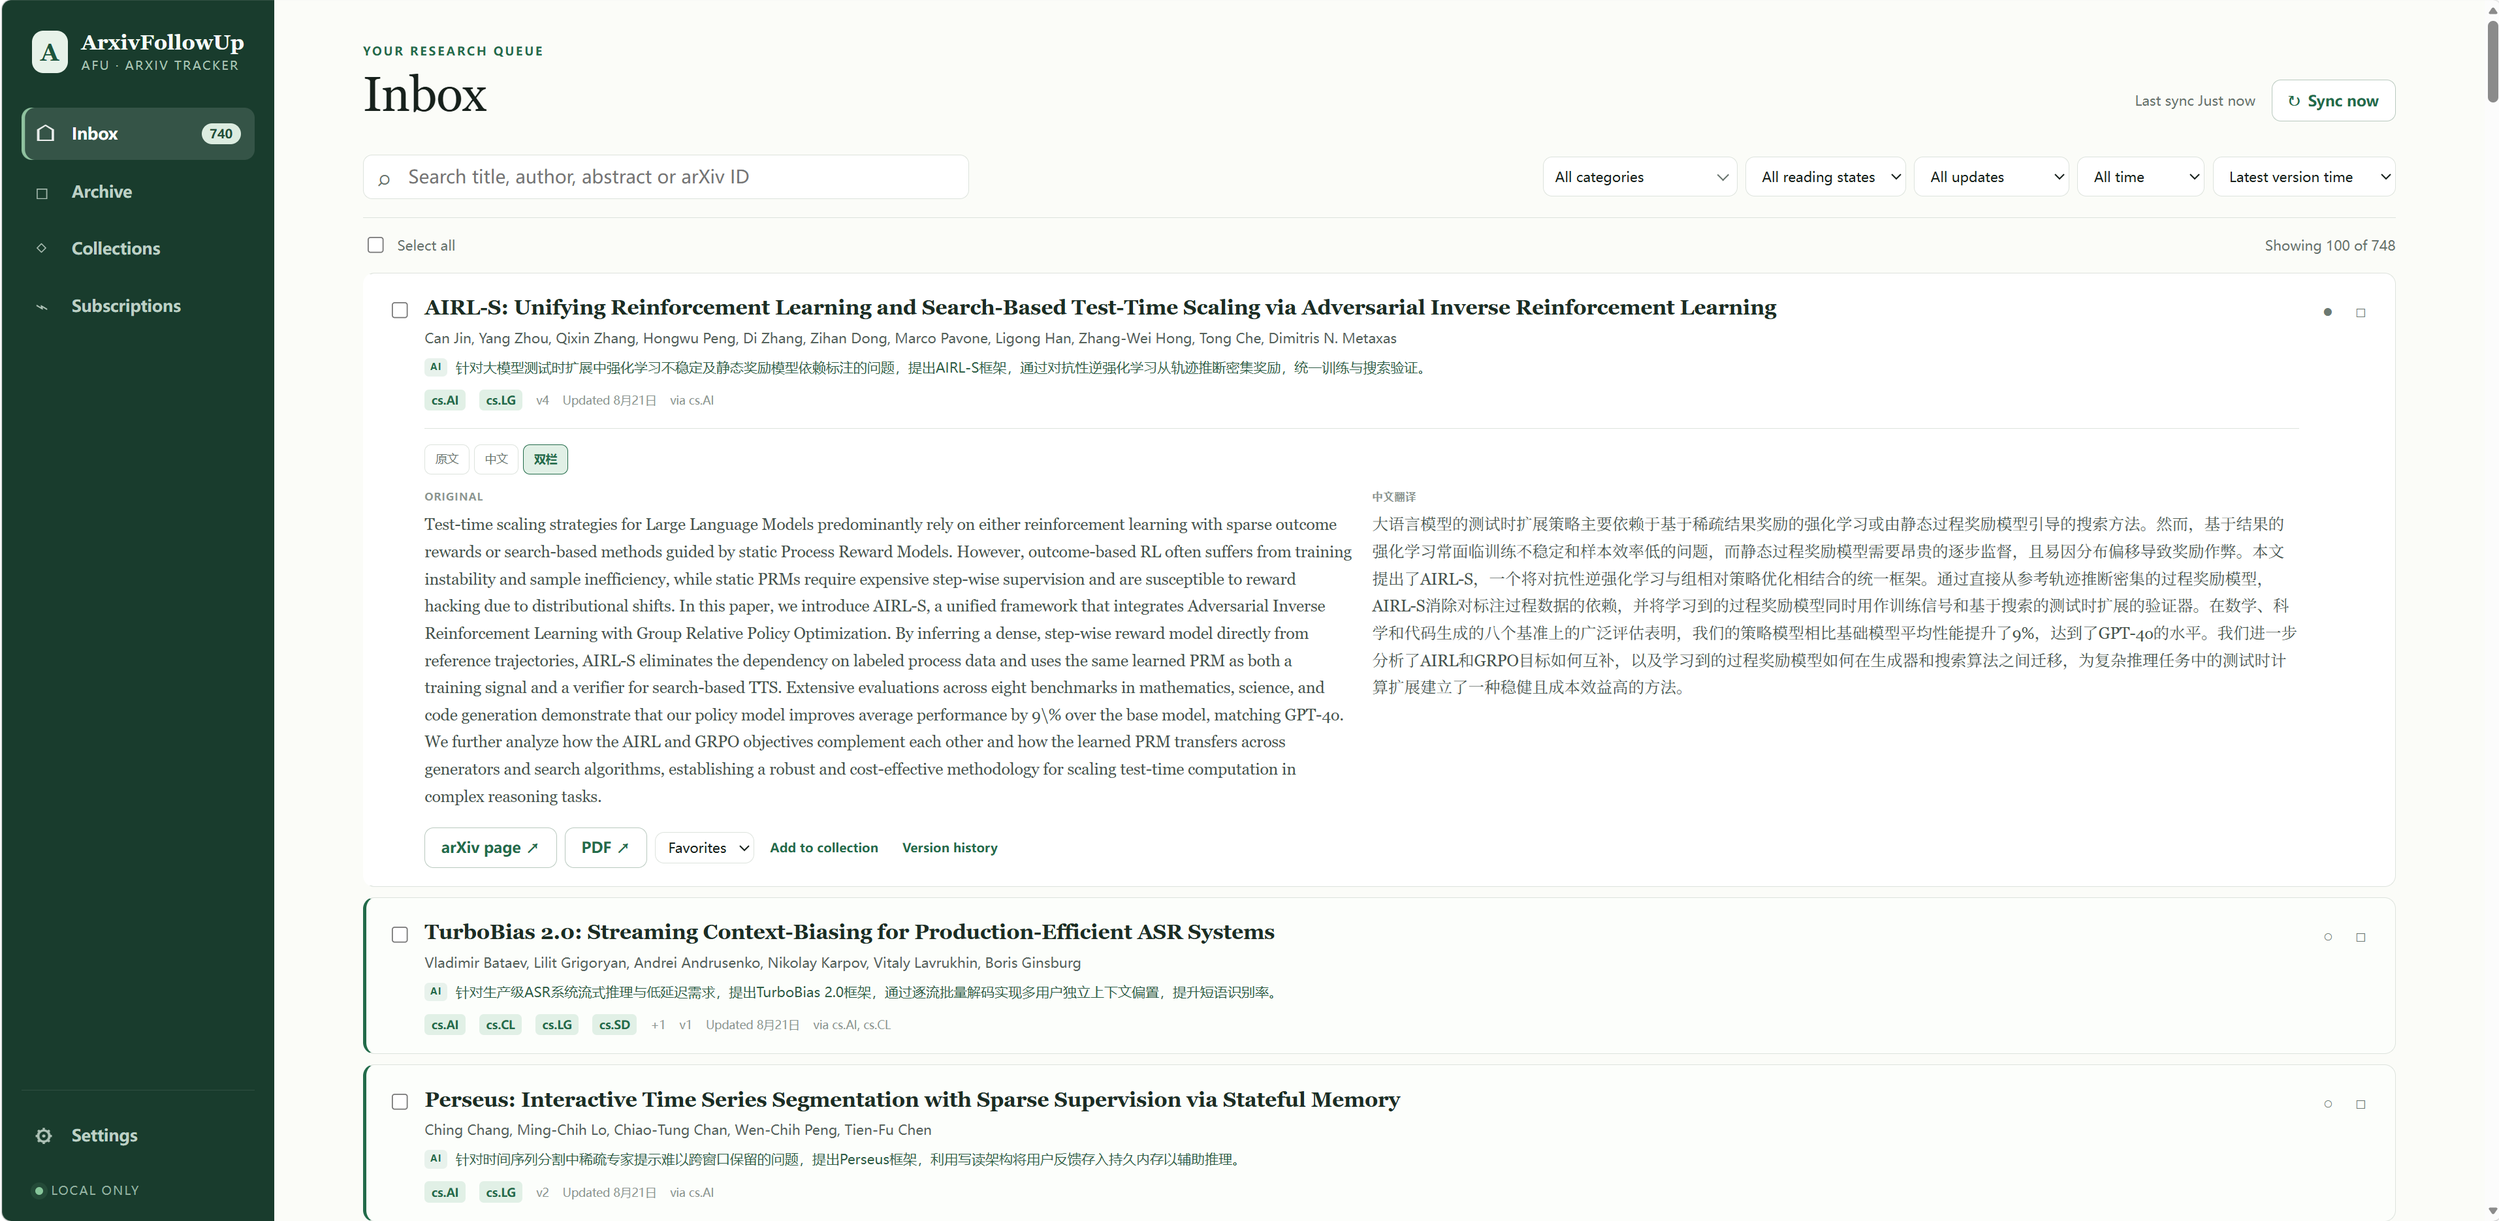
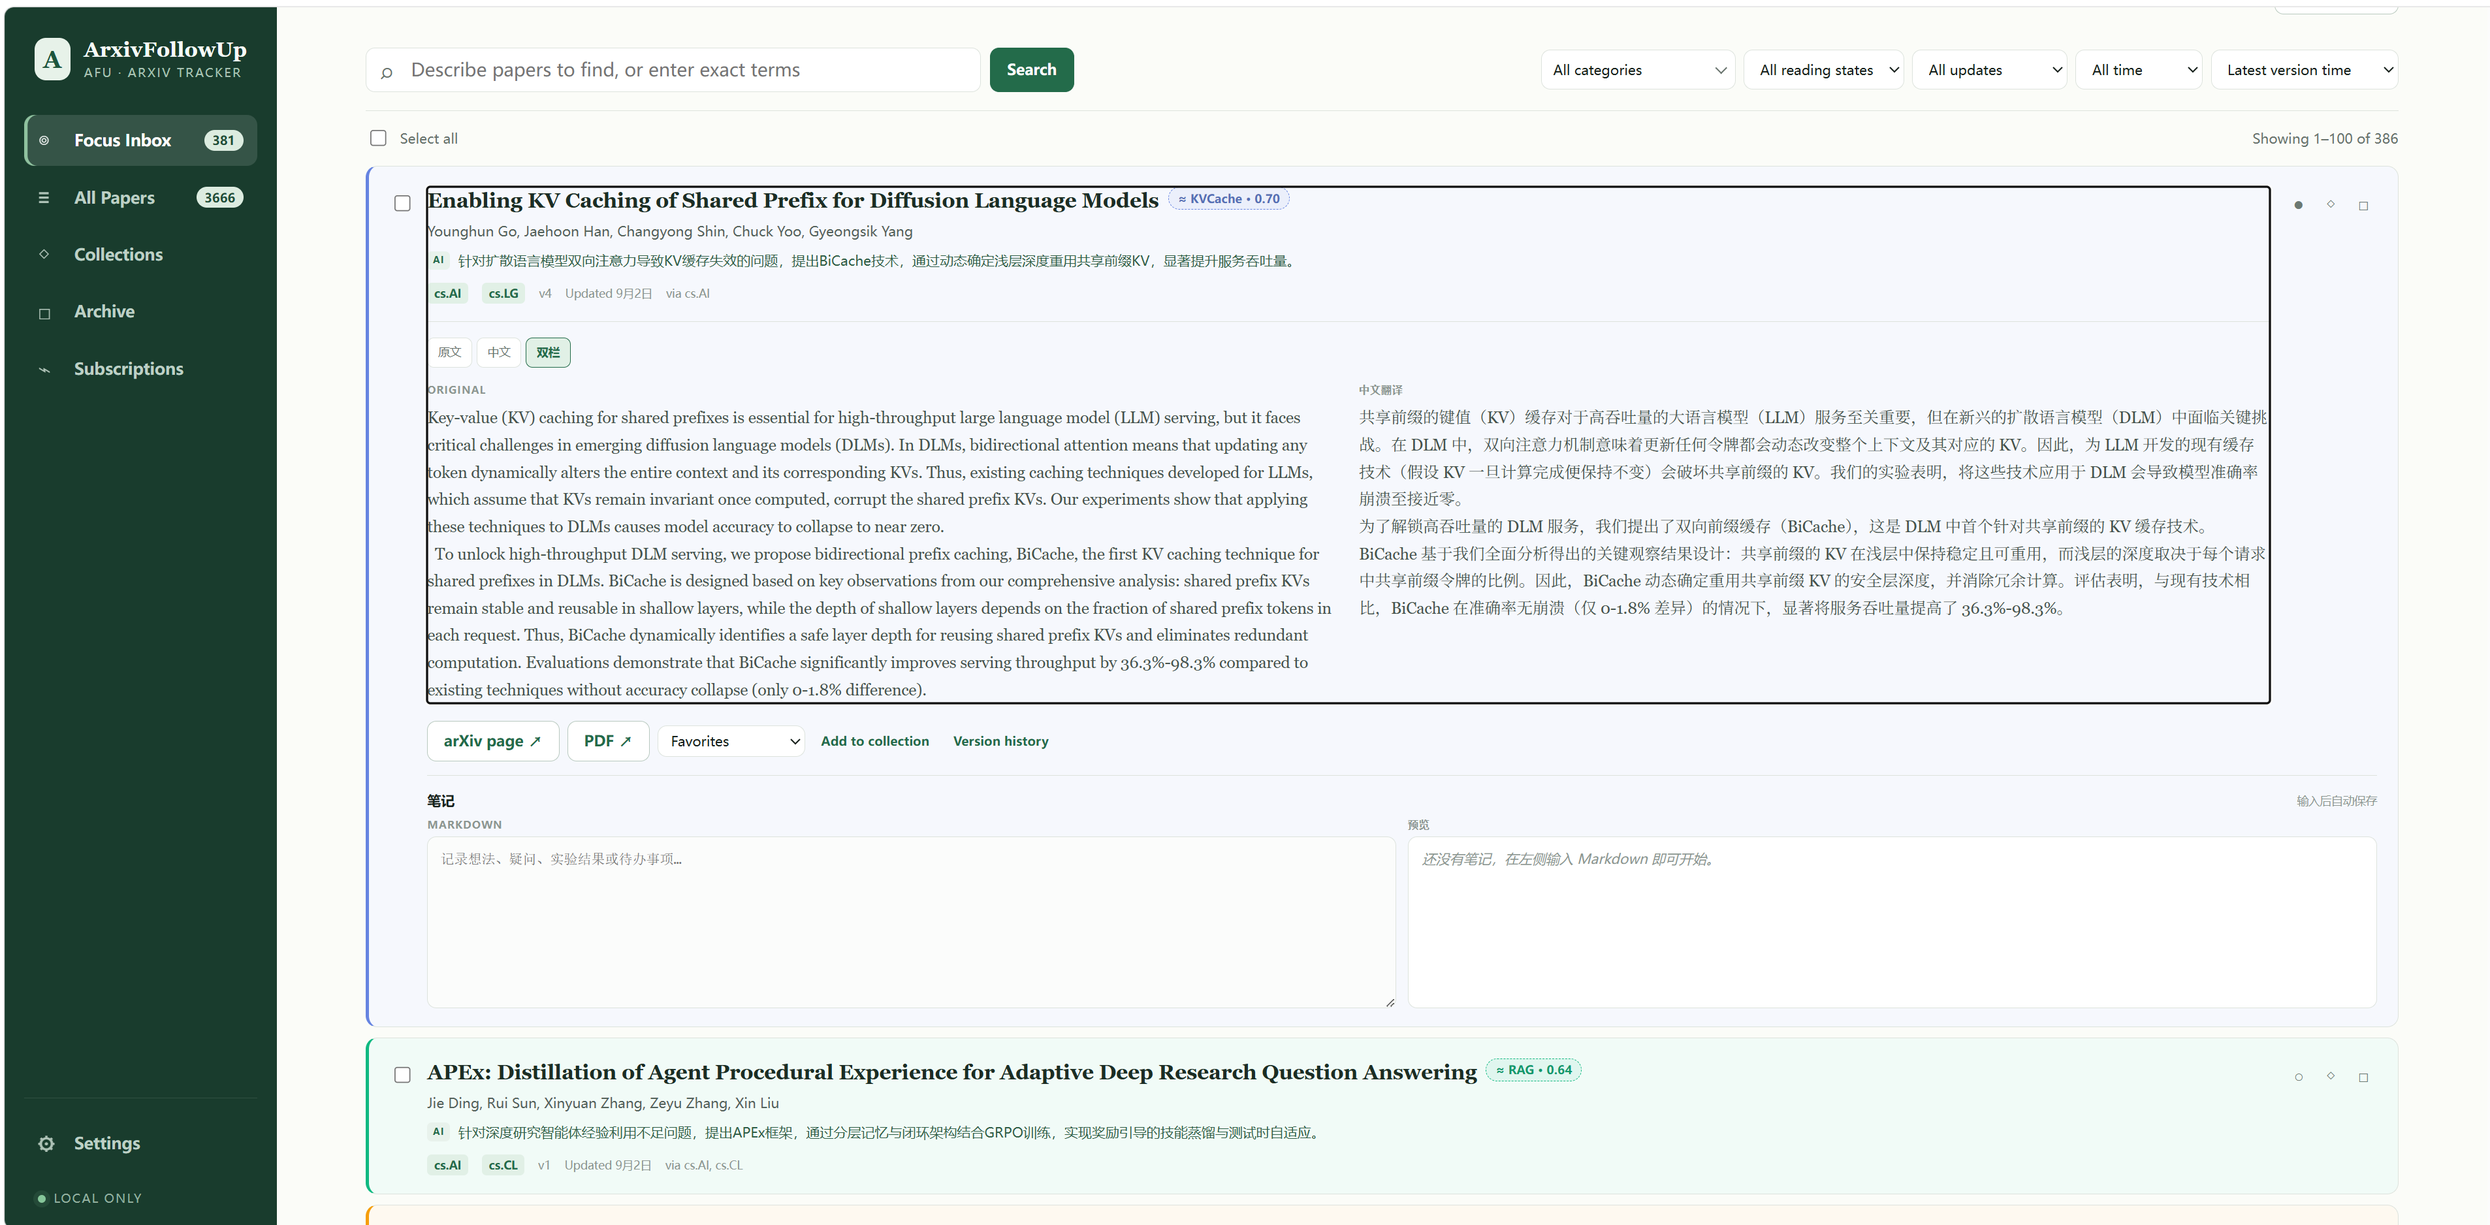
docs: refresh README and screenshot

diff --git a/README.md b/README.md
@@ -1,66 +1,16 @@
 # ArxivFollowUp (AFU)
 
-完整保存 arXiv 新论文和版本更新，再把与你兴趣最相关的内容送进一个本地 Focus Inbox。
+把 arXiv 新论文和版本更新收进本地，再从中挑出真正值得你关注的内容。
 
-ArxivFollowUp 是一款本地运行的 arXiv 论文追踪工具。订阅 `cs.AI`、`cs.LG` 等 Category 后，完整抓取结果会保留在 All Papers，Embedding 会把高相关论文送进 Focus Inbox；已经处理过的论文如果出现更高版本，也会重新进入 Focus，避免重要更新悄悄溜走。
+订阅 `cs.AI`、`cs.LG` 等 Category 后，AFU 会把同步到的论文完整保留在 **All Papers**，并根据你的 Collection 将高相关论文送进 **Focus Inbox**。读过或归档的论文如果发布了新版本，也会重新出现，不让重要更新悄悄溜走。
 
-连接任意 OpenAI-compatible API 后，AFU 还能为论文生成一句话中文解读和摘要翻译。订阅、论文元数据、阅读状态、收藏夹和 AI 结果均保存在本地 SQLite 中，不需要账户或云端数据库。
+连接任意 OpenAI-compatible API，还可以直接生成一句话中文解读和摘要翻译，先快速判断是否值得细读。AI 完全可选，关闭后不影响订阅、同步、搜索和阅读管理。
 
-![ArxivFollowUp Inbox 界面](./docs/images/arxiv-follow-up-inbox.png)
+![ArxivFollowUp Focus Inbox 界面](./docs/images/arxiv-follow-up-inbox.png)
 
-## 核心功能
+## 三步开始
 
-### 持续追踪论文及版本
-
-- 按 arXiv Category 订阅研究方向
-- 增量发现新论文和更高版本，并按 arXiv ID 自动去重
-- 保存本地实际观察到的版本历史
-- 已归档论文出现新版本时重新进入 Focus Inbox
-
-### 用 AI 快速判断是否值得读
-
-- 在论文列表中直接显示一句话中文解读
-- 支持原文、中文翻译和左右双栏摘要
-- 可自动处理新论文，也可只分析手动选中的论文
-- 支持自定义 OpenAI-compatible API、模型和并发数
-
-### 用 Embedding 构建 Focus Inbox
-
-- LLM 分析与 Embedding 可分别配置 API、模型和密钥
-- 根据 Collection 中的论文学习你的兴趣分类
-- 通过可调相关度门槛，把高相关论文送进 Focus Inbox
-- 在论文卡片中显示预测类别，帮助你理解入选原因
-- 可为 Collection 和 Archive 设置颜色；预测标签不会改变论文所在位置
-
-AI 完全可选。关闭后，订阅、同步和阅读管理仍可正常使用。
-
-### 把论文当作待处理队列
-
-- 使用 Read / Unread 标记阅读状态
-- 通过 Archive 表示不感兴趣，同时保留论文与 AI 内容供以后查看
-- 可从 Archive 中删除不再需要的本地内容
-- 使用多个 Collection 保存值得继续关注的论文
-- 为每篇论文编写 Markdown 笔记，实时预览并自动保存
-- 支持搜索论文元数据和笔记、Category 与状态筛选、批量处理，以及每页 100 篇的分页
-
-### 数据留在本地
-
-- 使用本地 SQLite 保存数据，无需登录
-- 服务默认只监听 `127.0.0.1`
-- 支持完整 JSON 备份与恢复
-- 支持 Windows 托盘后台运行和 macOS 一键启动
-
-## 使用方式
-
-1. 在 **Subscriptions** 中添加想追踪的 arXiv Category。
-2. AFU 同步当前 RSS，将完整结果保留在 **All Papers**，并把高相关论文送入 **Focus Inbox**。
-3. 优先浏览 Focus 中的标题和 AI 一句话解读，必要时到 All Papers 搜索完整结果。
-4. 将论文标为已读、加入 Collection，或在处理完成后 Archive。
-5. 后续同步发现更高版本时，论文会再次出现在 Focus Inbox 并标记为 Updated。
-
-## 快速开始
-
-需要 Node.js 24 或更高版本；SQLite 已由 Node.js 内置。
+需要 Node.js 24 或更高版本。SQLite 已由 Node.js 内置，不需要另外安装数据库。
 
 ```bash
 git clone https://github.com/Yuchen-Wang-CHN/ArxivFollowUp.git
@@ -69,36 +19,67 @@ npm ci
 npm start
 ```
 
-打开 <http://127.0.0.1:43110>。
+然后打开 <http://127.0.0.1:43110>，进入 **Subscriptions** 添加你想追踪的 arXiv Category。
 
 ### Windows
 
-完成一次 `npm ci` 后，可以双击 `start-afu.cmd`。AFU 会在后台启动、打开默认浏览器，并常驻系统托盘。双击托盘图标可再次打开页面，通过托盘菜单中的 **Exit ArxivFollowUp** 可停止服务。
+完成一次 `npm ci` 后，可以直接双击 `start-afu.cmd`。AFU 会在后台启动、打开默认浏览器，并常驻系统托盘；通过托盘菜单中的 **Exit ArxivFollowUp** 可以停止服务。
 
 ### macOS
 
-完成一次 `npm ci` 后，可以在 Finder 中双击 `start-afu.command`。再次双击只会打开已经运行的 AFU，不会重复启动服务。双击 `stop-afu.command` 可停止后台服务。
+完成一次 `npm ci` 后，双击 `start-afu.command` 即可启动，再次双击只会打开正在运行的 AFU。使用 `stop-afu.command` 停止后台服务。
 
-也可以在终端中运行：
+也可以在终端运行：
 
 ```bash
 ./start-afu.command
 ./stop-afu.command
 ```
 
-启动器支持 Homebrew、Volta、asdf、nvm 和 fnm 的常见 Node.js 安装位置，也可以通过 `AFU_NODE_PATH` 指定 Node.js 可执行文件。运行日志保存在 `data/afu-macos.log`。
+启动器支持 Homebrew、Volta、asdf、nvm 和 fnm 的常见 Node.js 安装位置。也可以通过 `AFU_NODE_PATH` 指定 Node.js 可执行文件；运行日志位于 `data/afu-macos.log`。
 
-## AI 配置
+## AFU 能帮你做什么
 
-在 **Settings → LLM analysis** 中填写服务地址、模型和独立 API key，然后选择处理模式：
+### 用 AI 快速判断是否值得读
 
-例如，可以使用 Qwen3.8 27B 等支持 OpenAI-compatible API 的模型。
+AFU 可以在论文列表中显示一句话中文解读，并在原文、中文翻译和左右双栏摘要之间切换，不必先打开每一篇论文。你可以让它自动处理进入 Focus 的新论文和版本更新，也可以只分析手动选中的论文。
+
+### 先完整收下，再决定看什么
+
+- 按 arXiv Category 持续发现新论文和更高版本
+- 所有同步结果保留在 **All Papers**，不会因为相关度较低而消失
+- 高相关论文、版本更新和你主动标记为未读的论文进入 **Focus Inbox**
+- 按 arXiv ID 自动去重，并保存本地实际观察到的版本历史
+
+### 用 Collection 告诉 AFU 你关心什么
+
+把值得继续关注的论文放进不同 Collection。启用 Embedding 后，AFU 会根据这些论文的向量建立兴趣画像，为新论文预测最接近的类别，并用相关度筛选 Focus Inbox。
+
+预测标签只用于辅助浏览，不会自动移动或归档论文。Archive 中的论文也不会参与兴趣分类。
+
+### 把论文当作一条可处理的队列
+
+- 使用 Read / Unread 记录阅读状态
+- 用 Archive 收起不感兴趣的论文，同时保留元数据和 AI 内容
+- 建立多个 Collection，并为 Collection 和 Archive 设置颜色
+- 为每篇论文写 Markdown 笔记，实时预览并自动保存
+- 搜索标题、作者、摘要、Category、arXiv ID 和本地笔记
+- 使用状态、Category、更新时间等筛选条件和批量操作
+
+一个简单的使用习惯是：先浏览 Focus，值得跟进的放进 Collection，处理完的归档；需要回查时，再到 All Papers 搜索完整结果。
+
+## 可选：启用 AI
+
+在 **Settings → LLM analysis** 中填写服务地址、模型和 API key，然后选择处理方式：
 
 - **关闭**：不创建新任务，但继续显示已有结果
-- **自动**：Embedding 分类完成后，只自动分析进入 Focus 的新论文和新版本；也可以在 All Papers 中按需点击单篇论文的“AI 翻译总结”
-- **手动**：只分析在 Focus 或 All Papers 中勾选并提交的论文
+- **自动**：自动分析进入 Focus 的新论文和新版本
+- **手动**：只分析你在 Focus 或 All Papers 中选中的论文
 
-也可以在启动前通过环境变量提供默认配置：
+自动模式下，也可以在 All Papers 中临时分析某一篇论文。
+
+<details>
+<summary>通过环境变量提供 LLM 默认配置</summary>
 
 ```powershell
 $env:AFU_AI_BASE_URL = 'http://127.0.0.1:8000/v1'
@@ -110,37 +91,30 @@ npm start
 | 环境变量 | 默认值 | 用途 |
 | --- | --- | --- |
 | `AFU_AI_BASE_URL` | `http://127.0.0.1:8000/v1` | OpenAI-compatible API 地址 |
-| `AFU_AI_MODEL` | `Qwen/Qwen3.8-27B-FP8` | AI 模型名称 |
+| `AFU_AI_MODEL` | `Qwen/Qwen3.8-27B-FP8` | 模型名称 |
 | `AFU_AI_API_KEY` | 空 | 可选 Bearer Token |
 
-Settings 中保存的配置优先用于后续启动。
+Settings 中保存的配置会优先用于后续启动。
 
-LLM API key 可以保存在 Settings 中，也可以通过 `AFU_AI_API_KEY` 提供。保存在 Settings 中的密钥不会写入 JSON 备份。
+</details>
 
-## Embedding 与默认分类
+## 可选：启用 Embedding 与混合搜索
 
-在 **Settings → Embedding & classification** 中配置独立的 Embedding 服务。默认配置面向 vLLM 的 OpenAI-compatible `/v1/embeddings` 接口：
+在 **Settings → Embedding & classification** 中配置独立的 Embedding 服务。默认配置适用于 vLLM 的 OpenAI-compatible `/v1/embeddings` 接口：
 
 ```text
 Base URL  http://127.0.0.1:8001/v1
 Model     Qwen/Qwen3-Embedding-0.6B
 ```
 
-启用后，AFU 会为本地论文生成 Embedding，并根据各个 Collection 中的论文建立兴趣分类。预测结果足够明确时，论文卡片会显示对应的彩色标签。你可以在 Settings 中分别调整分类门槛、领先幅度（Winning margin）和 Focus 最低相关度；Collection 内容变化后，分类会自动更新。
+AFU 默认将相关度达到 `0.60` 的论文放入 Focus，分类门槛默认为 `0.55`。你可以在 Settings 中调整门槛和领先幅度；Collection 内容变化后，结果会自动更新。版本更新和你主动标记为未读的论文不受 Focus 门槛限制。
 
-Focus Inbox 默认最低相关度为 `0.60`，分类门槛默认为 `0.55`；Focus 门槛不能低于分类门槛。版本更新和你主动标记为未读的论文不受门槛限制；未进入 Focus 的论文不会丢失，仍可在 All Papers 中搜索和处理。
+搜索会结合 SQLite FTS5 的关键词结果与 Dense Embedding。Embedding 关闭、Dense 权重设为零或服务临时不可用时，会自动回退到纯关键词搜索。
 
-Archive 中的论文不会参与分类。预测标签仅用于辅助浏览，不会自动移动或归档论文。
+只有查询文本会在 Dense 搜索时发送给 Embedding 服务，本地笔记不会发送。
 
-## 混合自然语言搜索
-
-论文列表顶部的搜索框使用 SQLite FTS5 BM25 与 Dense Embedding 进行混合检索。BM25 覆盖标题、作者、摘要、分类、arXiv ID 和本地笔记；Dense 检索只发送查询文本，并与现有的标题加摘要向量比较，本地笔记不会发送给 Embedding 服务。
-
-在 **Settings → Hybrid search** 中可以调整 Dense 权重，BM25 权重会自动取剩余比例。两路结果使用加权 Reciprocal Rank Fusion 合并。Embedding 关闭、Dense 权重设为零或服务临时不可用时，搜索会自动使用 100% BM25，并在结果上方显示当前实际搜索模式。
-
-搜索由 Enter 或 **Search** 按钮提交，以避免输入过程中反复调用 Embedding API；清空搜索框会恢复普通论文列表。
-
-Embedding 服务也可以通过环境变量提供默认值：
+<details>
+<summary>通过环境变量提供 Embedding 默认配置</summary>
 
 | 环境变量 | 默认值 | 用途 |
 | --- | --- | --- |
@@ -148,22 +122,24 @@ Embedding 服务也可以通过环境变量提供默认值：
 | `AFU_EMBEDDING_MODEL` | `Qwen/Qwen3-Embedding-0.6B` | Embedding 模型名称 |
 | `AFU_EMBEDDING_API_KEY` | 空 | 可选 Bearer Token |
 
-## 同步与数据
+</details>
 
-AFU 通过 arXiv RSS 持续发现新论文和版本更新，从你添加订阅时开始追踪。自动同步间隔可设置为 1–7 天，也可以随时点击 **Sync now**。
+## 数据与隐私
 
-Archive 会将论文移出 Focus 和 All Papers，但保留论文信息、版本历史和 AI 结果。若确定不再需要，可以在 Archive 中选择“删除本地内容”。以后出现更高版本时，这篇论文仍会作为 **Updated** 重新进入 Focus。
+订阅、论文元数据、阅读状态、Collection、笔记、AI 结果和 Embedding 都保存在本地 SQLite 中。AFU 不下载 PDF、不要求账户，服务默认只监听 `127.0.0.1`。
 
-AFU 不下载 PDF；论文信息、阅读状态、AI 结果和 Embedding 都保存在本地 SQLite 中。
+如果启用 LLM 或 Embedding，生成结果所需的论文标题和摘要会发送到你配置的 API；Dense 搜索还会发送查询文本。除此之外，本地笔记不会发送给这些服务。
 
-数据库和备份默认保存在：
+在 Settings 中填写的 API key 会保存在本地 SQLite 的 secrets 表中，不会进入 JSON 备份；它并未存入操作系统钥匙串，请妥善保护数据目录。
+
+数据库和备份默认位于：
 
 ```text
 data/afu.db
 data/backups/
 ```
 
-可以通过以下环境变量调整本地运行位置：
+可以在 Settings 中导出或恢复完整 JSON 备份。恢复前，AFU 会自动备份当前数据库。
 
 | 环境变量 | 默认值 | 用途 |
 | --- | --- | --- |
@@ -171,7 +147,13 @@ data/backups/
 | `AFU_DATABASE_PATH` | `./data/afu.db` | 自定义数据库文件路径 |
 | `PORT` | `43110` | 本地 HTTP 端口 |
 
-旧版 `data/localrss.db` 会被自动识别。你可以在 Settings 中导出或恢复 JSON 备份；恢复前，AFU 会自动备份当前数据库。
+旧版 `data/localrss.db` 会被自动识别。
+
+## 同步说明
+
+AFU 从你添加订阅时开始，通过 arXiv RSS 发现之后出现的新论文和版本更新。自动同步间隔可以设为 1–7 天，也可以随时点击 **Sync now**。
+
+Archive 会把论文移出 Focus 和 All Papers，但保留本地内容。选择“删除本地内容”后，相同版本不会被 RSS 再次加入；将来出现更高版本时，它仍会作为 **Updated** 回到 Focus。
 
 ## 开发
 
@@ -185,12 +167,10 @@ npm run check
 
 ```text
 public/       浏览器界面
-scripts/      Windows 托盘、macOS 启动与开发脚本
-src/          HTTP 服务、数据库、同步与 AI 逻辑
+scripts/      Windows 托盘、macOS 启动与辅助脚本
+src/          HTTP 服务、数据库、同步、搜索与 AI 逻辑
 test/         Node.js 测试
 ```
-
-相关资料：
 
 - [参与贡献](./CONTRIBUTING.md)
 - [安全策略](./SECURITY.md)
